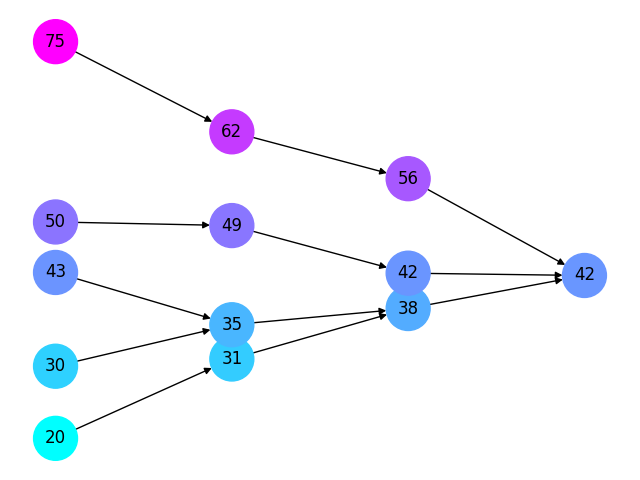
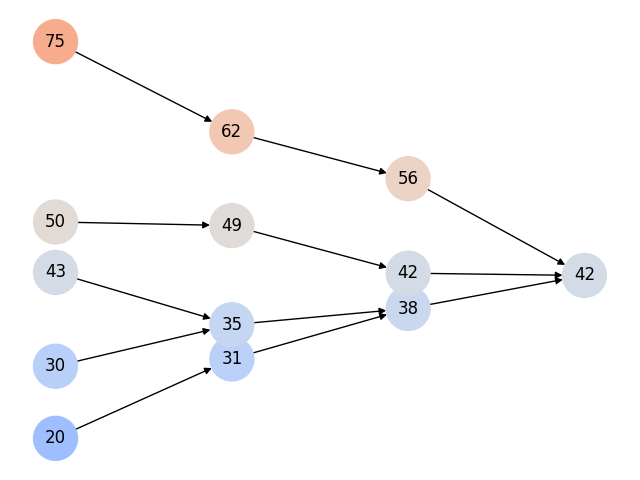
updated coloring

diff --git a/visualize.py b/visualize.py
@@ -1,12 +1,18 @@
-import matplotlib as mpl
 import matplotlib.pyplot as plt
 import networkx as nx
+import numpy as np
+from matplotlib import cm
+from matplotlib.colors import ListedColormap
 
 from model import BoundedConfidence
 
 
 def visualize(
-    model: BoundedConfidence, steps: int, digits: int = 3, gray=False, output_file=None
+    model: BoundedConfidence,
+    steps: int,
+    digits: int = 3,
+    blackwhite=False,
+    output_file=None,
 ):
     # get model run results
     results = model.run(number_of_steps=steps)
@@ -15,10 +21,6 @@ def visualize(
 
     # initialize
     net = nx.DiGraph()
-    norm = mpl.colors.Normalize(
-        vmin=min(model.start_distribution),
-        vmax=max(model.start_distribution),
-    )
 
     # add nodes
     for step in range(steps):
@@ -37,24 +39,27 @@ def visualize(
                 net.add_edge(*edge)
 
     # colors
-    if gray:
-        color_nodes = ["gray" for node in net.nodes()]
-        color_edges = ["gray" for edge in net.edges()]
-        labels = {node: "" for node in net.nodes()}
-    else:
-        colormap = plt.get_cmap("cool")  # other options: rainbow
-        color_nodes = [
-            mpl.colors.to_hex(colormap(norm(node[0]))) for node in net.nodes()
-        ]
-        color_edges = ["k" for edge in net.edges()]
-        labels = {node: round(node[0], digits) for node in net.nodes()}
-        if digits == 0:
-            labels = {node: int(node[0]) for node in net.nodes()}
+    cmap = "coolwarm"  # other options: coolwarm, Greys
+    if blackwhite:
+        cmap = "Greys"
+    colormap = ListedColormap(cm.get_cmap(cmap)(np.linspace(0.3, 0.7)))
+    color_nodes = [node[0] for node in net.nodes()]
+    labels = {node: round(node[0], digits) for node in net.nodes()}
+    if digits == 0:
+        labels = {node: int(node[0]) for node in net.nodes()}
 
     # draw
     options = {"node_size": 1000, "font_family": "SegUI", "font_size": 12}
     plt.clf()
-    nx.draw(net, pos=pos, node_color=color_nodes, edge_color=color_edges, **options)
+    nx.draw(
+        net,
+        pos=pos,
+        node_color=color_nodes,
+        # edge_color=color_edges,
+        cmap=colormap,
+        **options
+    )
+
     nx.draw_networkx_labels(net, pos, labels)
 
     if output_file:

diff --git a/figures.py b/figures.py
@@ -1,7 +1,8 @@
 from model import BoundedConfidence
 from visualize import visualize
 
-if __name__ == "__main__":
+
+def create_all_figures(blackwhite=False):
     start = [20, 40, 60, 64, 64, 64, 64, 64]
     model = BoundedConfidence(start_distribution=start, confidence_threshold=22)
     visualize(
@@ -9,6 +10,7 @@ if __name__ == "__main__":
         steps=6,
         digits=0,
         output_file="images/openness_monotonicity_0",
+        blackwhite=blackwhite,
     )
 
     model = BoundedConfidence(start_distribution=start, confidence_threshold=24)
@@ -17,6 +19,7 @@ if __name__ == "__main__":
         steps=6,
         digits=0,
         output_file="images/openness_monotonicity_1",
+        blackwhite=blackwhite,
     )
 
     start = [30, 40, 80]
@@ -26,6 +29,7 @@ if __name__ == "__main__":
         steps=6,
         digits=0,
         output_file="images/openness_stability_0",
+        blackwhite=blackwhite,
     )
     model = BoundedConfidence(start_distribution=start, confidence_threshold=50)
     visualize(
@@ -33,6 +37,7 @@ if __name__ == "__main__":
         steps=6,
         digits=0,
         output_file="images/openness_stability_1",
+        blackwhite=blackwhite,
     )
 
     start = [31, 41, 82]
@@ -42,6 +47,7 @@ if __name__ == "__main__":
         steps=6,
         digits=0,
         output_file="images/responsiveness",
+        blackwhite=blackwhite,
     )
 
     start = [30, 40, 81]
@@ -51,6 +57,7 @@ if __name__ == "__main__":
         steps=6,
         digits=0,
         output_file="images/manipulation",
+        blackwhite=blackwhite,
     )
 
     start = [20, 30, 43, 50, 75]
@@ -60,6 +67,7 @@ if __name__ == "__main__":
         steps=6,
         digits=0,
         output_file="images/no_show_0",
+        blackwhite=blackwhite,
     )
 
     start = [20, 30, 50, 75]
@@ -69,4 +77,9 @@ if __name__ == "__main__":
         steps=6,
         digits=0,
         output_file="images/no_show_1",
+        blackwhite=blackwhite,
     )
+
+
+if __name__ == "__main__":
+    create_all_figures(blackwhite=False)
